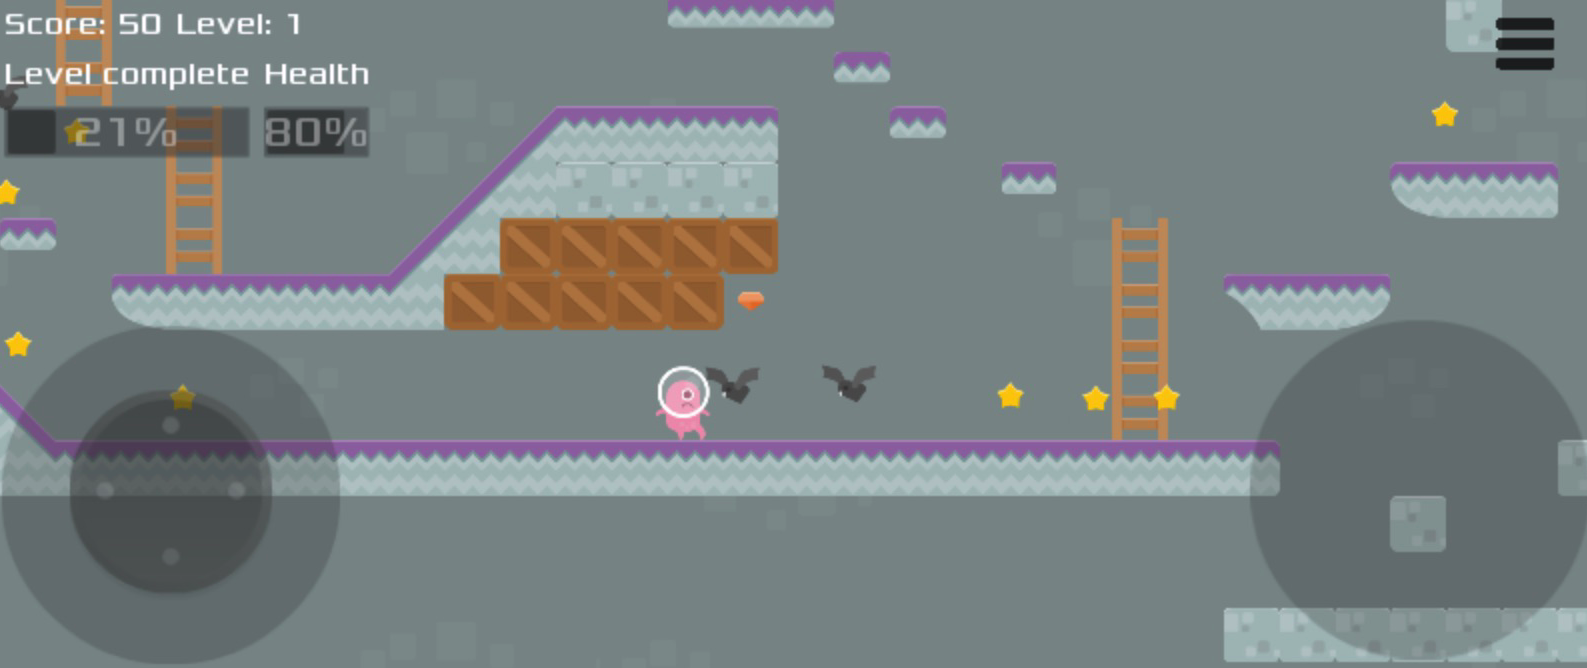
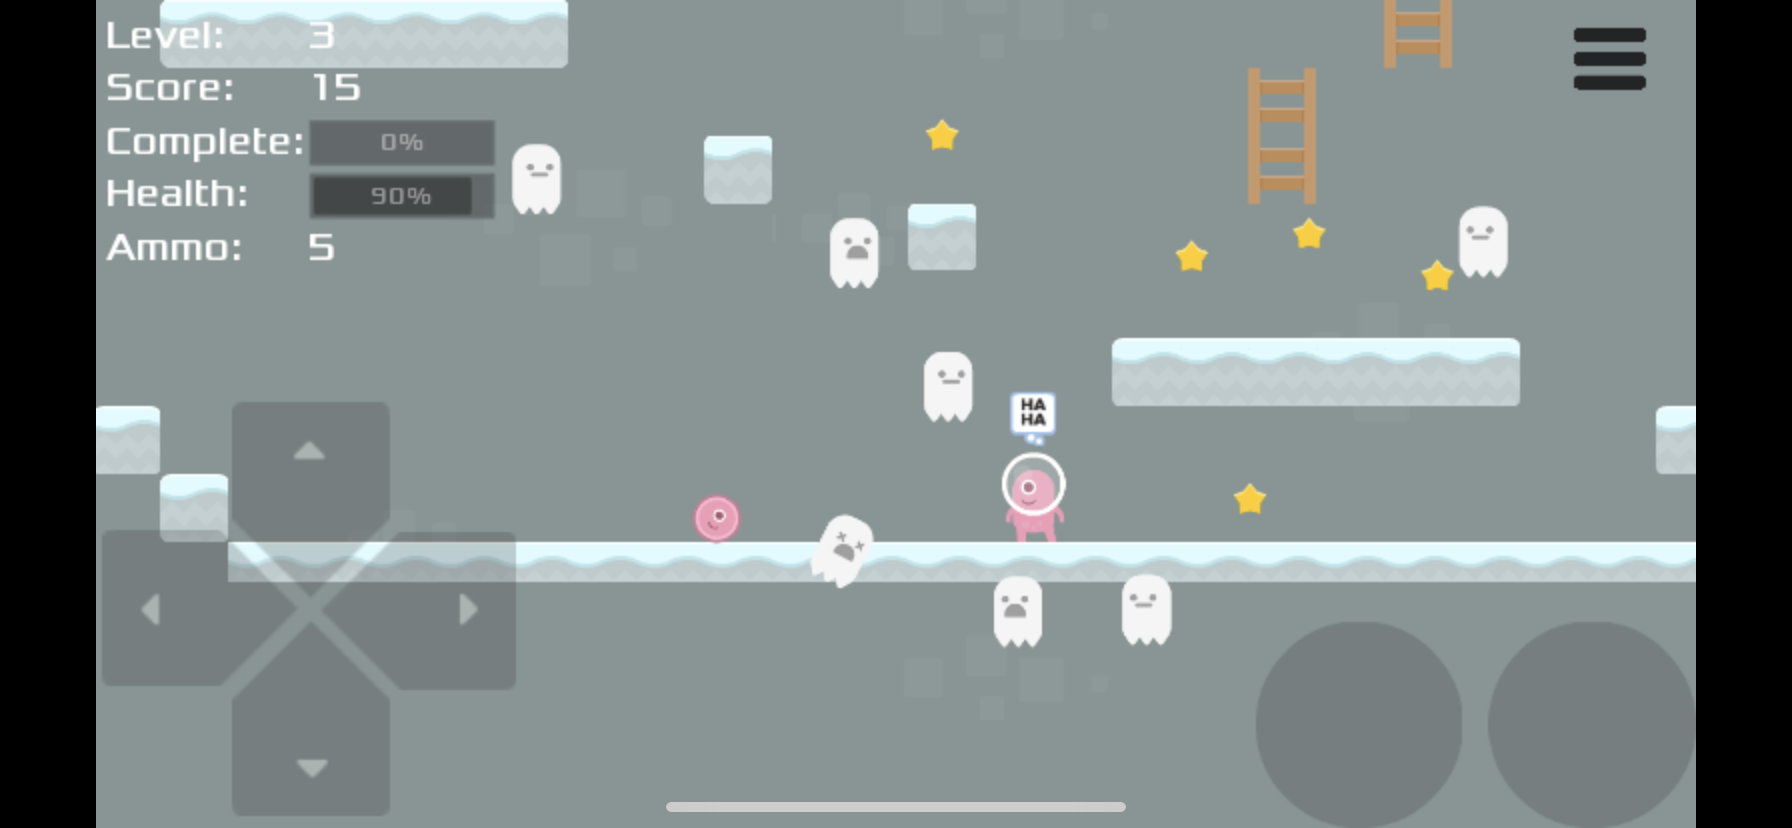
Updated README + screenshot

diff --git a/README.md b/README.md
@@ -13,8 +13,8 @@ Then, import game/project.godot in Godot 3.*
 
 
 <p>
-Use arrow- or WASD-keys to move and space to jump. ESC to pause. The goal is to gather all stars on each level.
-When using a touch-screen, an on-screen DPad joystick + a jump button are used for movements.  
+Use arrow- or WADX to move and space to jump. Use S to shoot orbs that kills enemies. Use ESC to pause. The goal is to gather all stars on each level.
+When using a touch-screen, an on-screen DPad joystick + an action button are used for movements. A secondary action button is used for shooting orbs.  
 The DPad implementation is an excellent plugin from https://github.com/shinneider/godot_touchJoyPad  
 <p>
 Graphics by Kenney (www.kenney.nl)
